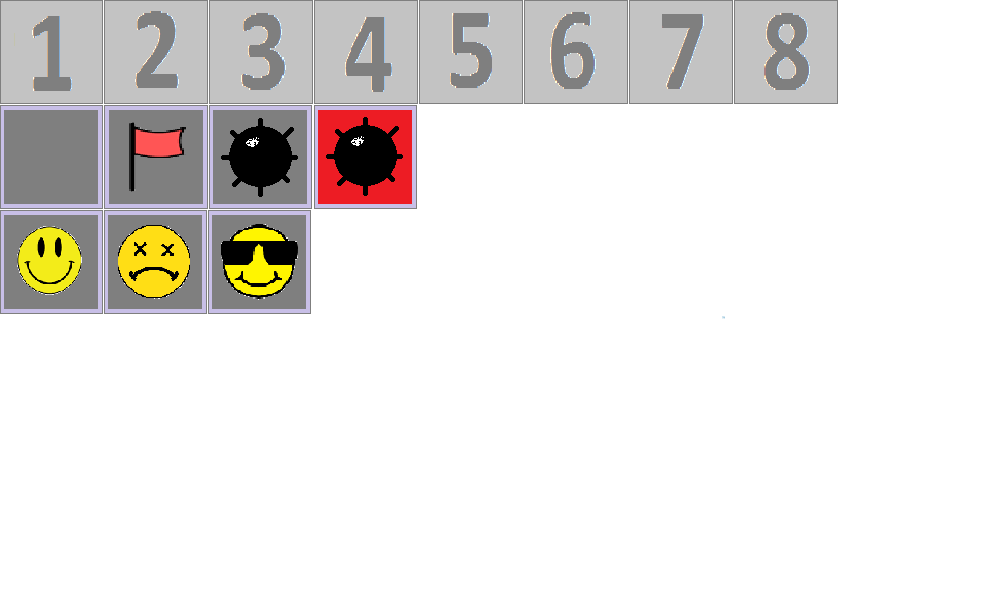
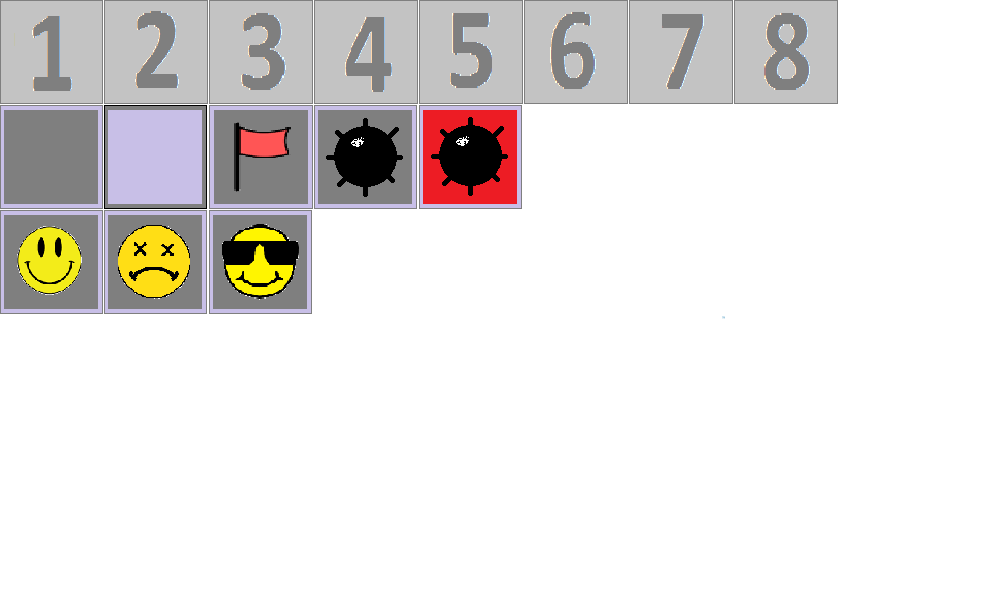
before refactoring code

Changed region(s): [[0.093, 0.15, 0.527, 0.36], [0.279, 0.45, 0.31, 0.48], [0.217, 0.45, 0.248, 0.48]]

diff --git a/Minesweeper/Game.cpp b/Minesweeper/Game.cpp
@@ -31,7 +31,7 @@ void Game::resizeGrid(int h, int w, int mines, float s)
 	// the next for loop might need < instead of <=
 	for(int i = 1; i <= h*w ; i++ )
 	{
-		grid[i-1] = Block(texture, f, false, sf::IntRect(0, 105, 103, 104), scale);
+		grid[i-1] = Block(texture, f, false, sf::IntRect(105, 105, 104, 104), scale);
 
 		f.x += 105*scale;
 		if(i % w == 0)
@@ -40,6 +40,32 @@ void Game::resizeGrid(int h, int w, int mines, float s)
 			f.y += 105*scale;
 		}
 	}
+	// Seed with a real random value, if available
+    std::random_device r;
+ 
+    // Choose a random mean between 1 and 6
+    std::default_random_engine e1(r());
+    std::uniform_int_distribution<int> uniform_dist(0, h*w);
+
+	for(int i = 0; i < mines; i++)
+	{
+		int rand = uniform_dist(e1);
+		grid[rand].mine = true;
+		for (int i = -1; i < 2; ++i)
+		{
+			grid[rand+i+6].nearMines += 1;
+			grid[rand+i-6].nearMines += 1;
+		}
+	}
+
+	// for (int i = 0; i < h*w; ++i)
+	// {
+	// 	if(grid[i].nearMines != 0)
+	// 	{
+	// 		grid[i].setSpriteRect(sf::IntRect(0, 105*grid[i].nearMines, 
+	// 											104, 104));
+	// 	}
+	// }
 }
 
 int Game::getGridSize()
@@ -47,15 +73,29 @@ int Game::getGridSize()
 	return grid.size();
 }
 
-void Game::mouseClick(sf::Vector2i t)
+void Game::mouseClick(sf::Vector2f t)
 {
 	for (int i = 0; i < grid.size(); i++)
 	{
-		if(grid[i].rect.contains(t))
+		sf::FloatRect temp = grid[i].sprite.getGlobalBounds();
+		if(temp.contains(t))
 		{
-			// change sprite to reveal the name
+			grid[i].setSpriteRect(sf::IntRect(0, 0 , 104, 104));
 		}
+
+		// sf::IntRect temp;
+		// if(temp.intersects(grid[i].sprite.getGlobalBounds(), t))
+		// {
+		// 	grid[i].setSpriteRect(sf::IntRect(0, 0 , 104, 104));
+		// }
 	}
+}
+
+// still not sure where this will go
+// or what parameters it will take
+void Game::updateGridTexture()
+{
+
 }
 
 Game::~Game()

diff --git a/Minesweeper/main.cpp b/Minesweeper/main.cpp
@@ -2,15 +2,31 @@
 #include "Game.hpp"
 #include "vector"
 #include "iostream"
+int hight = 2;
+int width = 2;
+sf::View view;
 
 int main(int argc, char const *argv[])
 {
 	sf::RenderWindow window(sf::VideoMode(400, 600), "Minesweeper");
 
-	window.EnableKeyRepeat(false);
-	window.SetFrameraeLimit(30);
+	window.setKeyRepeatEnabled(false);
+	window.setFramerateLimit(30);
 
-    Game game(0.2, 3, 3, 0, "images/blocks.png");
+    Game game(0.2, hight, width, 3, "images/blocks.png");
+
+    // ajustes the view to my window to fir the grid
+    view.reset(sf::FloatRect(0, 0, width*105*game.scale, hight*105*game.scale));
+    window.setSize(sf::Vector2u(width*105*game.scale, hight*105*game.scale));
+
+    window.setView(view);
+
+    for (int i = 0; i < game.getGridSize(); ++i)
+    {
+    	std::cout << i << std::endl;
+    	std::cout << game.grid[i].rect.left << std::endl;
+    	std::cout << game.grid[i].rect.top << std::endl;
+    }
 
     while(window.isOpen())
     {
@@ -23,8 +39,18 @@ int main(int argc, char const *argv[])
 	        {
 	        	window.close();
 	        }
+
+	        if (event.type == sf::Event::MouseButtonPressed)
+	        {
+	        	if (event.mouseButton.button == sf::Mouse::Left)
+	        	{
+	        		game.mouseClick(sf::Mouse::getPosition(window));
+	        		std::cout << event.mouseButton.x << event.mouseButton.y << std::endl;
+	        	}
+	        }
 	    }
 
+	    //handels screen rendering dont mess with for now
 	    // set backgound colour 
 	    window.clear(sf::Color(0, 0, 0, 255));
 
@@ -40,3 +66,6 @@ int main(int argc, char const *argv[])
 
 	return 0;
 }
+
+// you will need it later trust me
+// if (event.type == sf::Event::Resized)

diff --git a/Minesweeper/Block.cpp b/Minesweeper/Block.cpp
@@ -9,8 +9,6 @@ Block::Block(sf::Texture& t, sf::Vector2f p, bool x, sf::IntRect r, float s)
 {
     mine = x;
 
-    rect = r;
-
     sprite.setTexture(t);
 
     sprite.setTextureRect(r);
@@ -19,9 +17,19 @@ Block::Block(sf::Texture& t, sf::Vector2f p, bool x, sf::IntRect r, float s)
 
     sprite.setScale(s, s);
 
+    rect.top = p.y;
+    rect.left = p.x;
+    rect.width = r.width*s;
+    rect.height = r.height*s;
+
 }
 
 Block::~Block()
 {
     
+}
+
+void Block::setSpriteRect(sf::IntRect r)
+{
+    sprite.setTextureRect(r);
 }

diff --git a/Minesweeper/Game.hpp b/Minesweeper/Game.hpp
@@ -4,6 +4,9 @@
 #include "vector"
 #include "Block.hpp"
 #include "string"
+#include "ctime"
+#include "random"
+#include "iostream"
 
 class Game
 {
@@ -20,7 +23,8 @@ class Game
 		sf::Texture texture;
 		void resizeGrid(int h, int w,int mines, float scale);	
 		int getGridSize();
-		void mouseClick(sf::Vector2i t);
+		void mouseClick(sf::Vector2f t);
+		void updateGridTexture();
 
 };
 

diff --git a/Minesweeper/Block.hpp b/Minesweeper/Block.hpp
@@ -8,6 +8,8 @@ public:
     Block();
     Block(sf::Texture& t, sf::Vector2f p, bool x, sf::IntRect r, float s);
     ~Block();
+    void setSpriteRect(sf::IntRect r);
+    int nearMines = 0;
     bool mine;
     sf::Sprite sprite;
     sf::IntRect rect;
